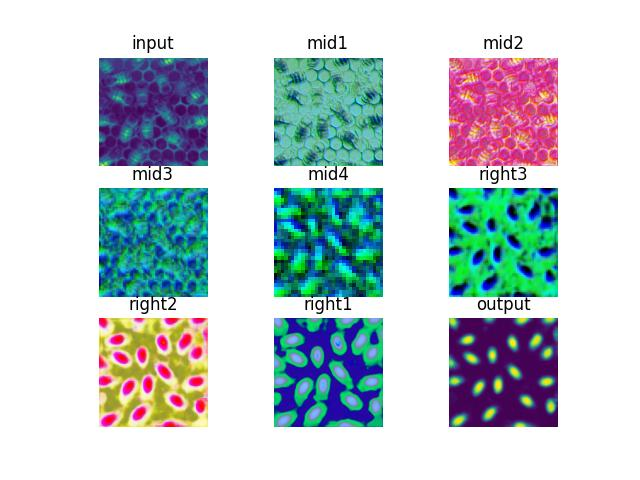
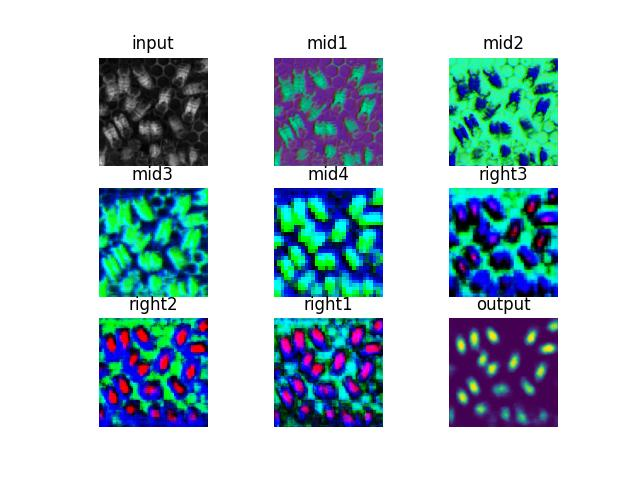
Update report with PCA.

diff --git a/detection/train.py b/detection/train.py
@@ -72,10 +72,10 @@ def train(args, model):
 
             total_loss /= len(test_loader)
             writer.add_scalar("test_loss", total_loss, train_step)
-            if epoch % 5 == 0 or epoch == args.epochs - 1:
-                writer.add_images("test_x", x, train_step)
-                writer.add_images("test_y", y, train_step)
-                writer.add_images("test_pred", pred, train_step)
+            # if epoch % 5 == 0 or epoch == args.epochs - 1:
+            writer.add_images("test_x", x, train_step)
+            writer.add_images("test_y", y, train_step)
+            writer.add_images("test_pred", pred, train_step)
 
         torch.save(model.state_dict(), "model.pt")
         lr_scheduler.step()

diff --git a/detection/dataset.py b/detection/dataset.py
@@ -23,7 +23,7 @@ for x in range(2, 8):
     for y in range(4, 8):
         VALID_BLOCKS.append((x, y))
 # Output res of dataset.
-OUTPUT_RES = 256
+OUTPUT_RES = 512
 
 VALID_EXTENSIONS = (
     ".png",
@@ -110,8 +110,6 @@ class OistDataset(Dataset):
         # Draw ellipse.
         y_img = np.zeros((x_img.shape[1], x_img.shape[2], 1), dtype=np.uint8)
         for x, y, angle in labels:
-            # if random.random() < 0.5:
-            #     continue
             angle = angle * 180 / math.pi + 90
             cv2.ellipse(y_img, (x, y), (35, 20), angle, 0, 360, 255, -1)
         y_img = torch.from_numpy(y_img).permute(2, 0, 1)

diff --git a/detection/results/README.md b/detection/results/README.md
@@ -32,12 +32,6 @@ Experiments:
 | Base | 0.5M | 0.55 |
 | Double channels | 1.9M | 0.55 |
 
-## Fixing the vanishing gradient problem
-
-In a previous experiment, models tended to fail, producing output images that are completely black.
-This is most likely due to random chance, as models occasionally perform well.
-This was fixed with `BatchNorm2d`. Almost all runs converge quickly now.
-
 ## Results
 
 ![](./detection.jpg)
@@ -46,8 +40,16 @@ This was fixed with `BatchNorm2d`. Almost all runs converge quickly now.
 
 ![](./test_loss.jpg)
 
-### PCA
+## Hidden layer visualization
 
-PCA analysis on all hidden layers.
+Model: U-Net with residual connections, 16 base channels, 5 epochs. Final loss 0.047.
+
+We visualize the model with PCA on the hidden layers.
 
 ![](./hidden_layers.jpg)
+
+## Fixing the vanishing gradient problem
+
+In a previous experiment, models tended to fail, producing output images that are completely black.
+This is most likely due to random chance, as models occasionally perform well.
+This was fixed with `BatchNorm2d`. Almost all runs converge quickly now.
